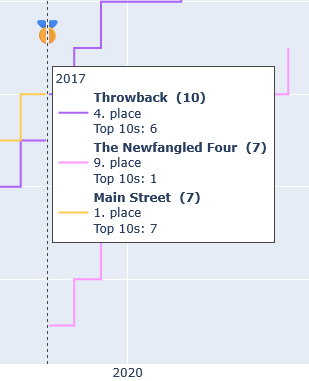
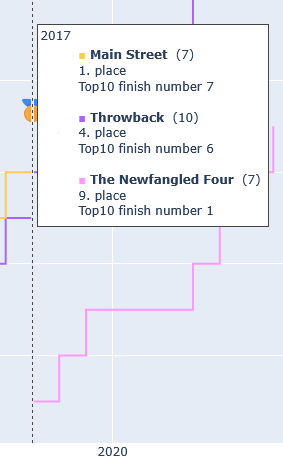
Create an custom hoverbox to sort it by placement

diff --git a/top10.py b/top10.py
@@ -1,6 +1,7 @@
 from pathlib import Path
 import pandas as pd
 import plotly.graph_objects as go
+import plotly.express as px
 
 # configurables
 MIN_FINISHES = 7
@@ -10,6 +11,8 @@ YEAR_END = 2026
 # constants
 PATH_FOLDER = Path("top10scores")
 
+# Setup
+## Read Files
 records = []
 for file in sorted(PATH_FOLDER.glob("*.tsv")):
     year = int(file.stem)
@@ -44,11 +47,19 @@ final_counts = (
 keep_quartets = final_counts[final_counts >= MIN_FINISHES].index
 results = results[results["quartet"].isin(keep_quartets)]
 
+## Set Colors - custom set to show it in custom hoverbox
+palette = px.colors.qualitative.Plotly
+quartet_colors = {
+    quartet: palette[i % len(palette)]
+    for i, quartet in enumerate(final_counts.loc[keep_quartets].index)
+}
+
+
 # ---- PLOTLY ----
 fig = go.Figure()
 
 ## Display quartets
-# iterate in sorted order (IMPORTANT for legend order)
+### iterate in sorted order (IMPORTANT for legend order)
 for quartet in final_counts.loc[keep_quartets].index:
     g = results[results["quartet"] == quartet]
 
@@ -57,16 +68,37 @@ for quartet in final_counts.loc[keep_quartets].index:
         y=g["top10s"],
         mode="lines",
         name=f"{quartet} ({final_counts[quartet]})",
-        line={'shape': 'hv'},
-        customdata=g["hover_text"],
-        hovertemplate=(
-            "<b>%{fullData.name}</b><br>"
-            "%{customdata}<br>"
-            "Top 10s: %{y}<extra></extra>"
-        ),
+        line={'shape': 'hv', 'color': quartet_colors[quartet]},
+        hoverinfo="skip"
     ))
 
-## Markers for Gold, Silver, Bronze medals
+### Custom Hoverbox for sorting
+hover_texts = []
+hover_y = []
+years_sorted = sorted(results["year"].unique())
+for yr in years_sorted:
+    active = results[results["year"] == yr].sort_values("place")
+    parts = [
+        f"<span style='color:{quartet_colors[row.quartet]}'>&#9632;</span> "
+        f"<b>{row.quartet}</b> ({final_counts[row.quartet]})<br>"
+        f"{row.place}. place<br>"
+        f"Top10 finish number {row.top10s}"
+        for row in active.itertuples()
+    ]
+    hover_texts.append("<br><br>".join(parts))
+    hover_y.append(active["top10s"].max())  # position near the top of that year's cluster
+
+fig.add_trace(go.Scatter(
+    x=years_sorted,
+    y=hover_y,
+    mode="markers",
+    marker=dict(opacity=0, size=0),
+    hovertext=hover_texts,
+    hoverinfo="x+text",
+    showlegend=False,
+))
+
+### Markers for Gold, Silver, Bronze medals
 gold = results[results["place"] == 1].copy()
 silver = results[results["place"] == 2].copy()
 bronze = results[results["place"].between(3, 5)].copy()
@@ -114,8 +146,7 @@ fig.update_layout(
     xaxis_title="Year",
     yaxis_title="Career Top 10 finishes",
     legend_title="Quartet (Top 10s)",
-    hovermode="x unified",
-    hoverdistance=5
+    hovermode="x unified"
 )
 
 fig.update_xaxes(